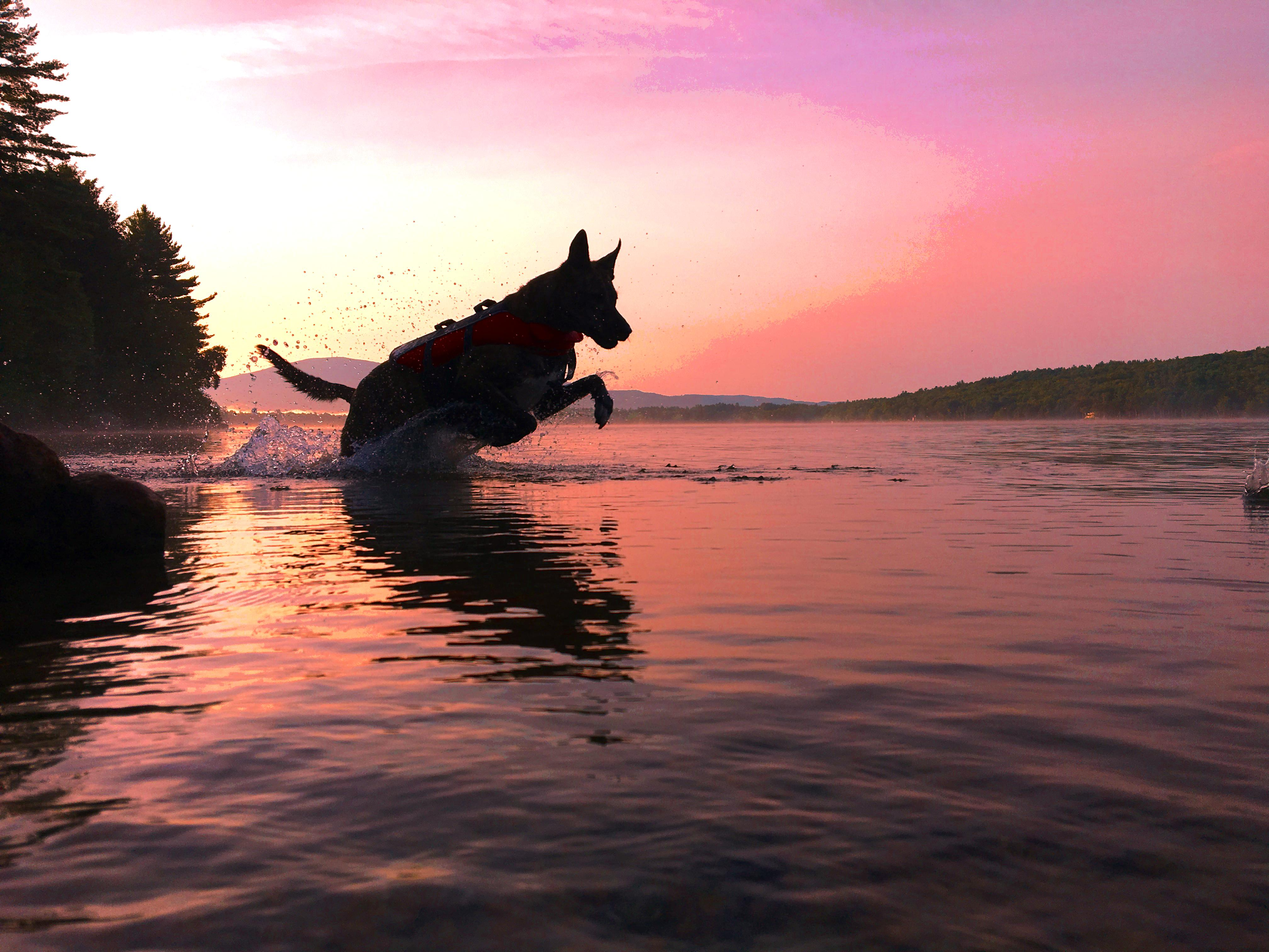
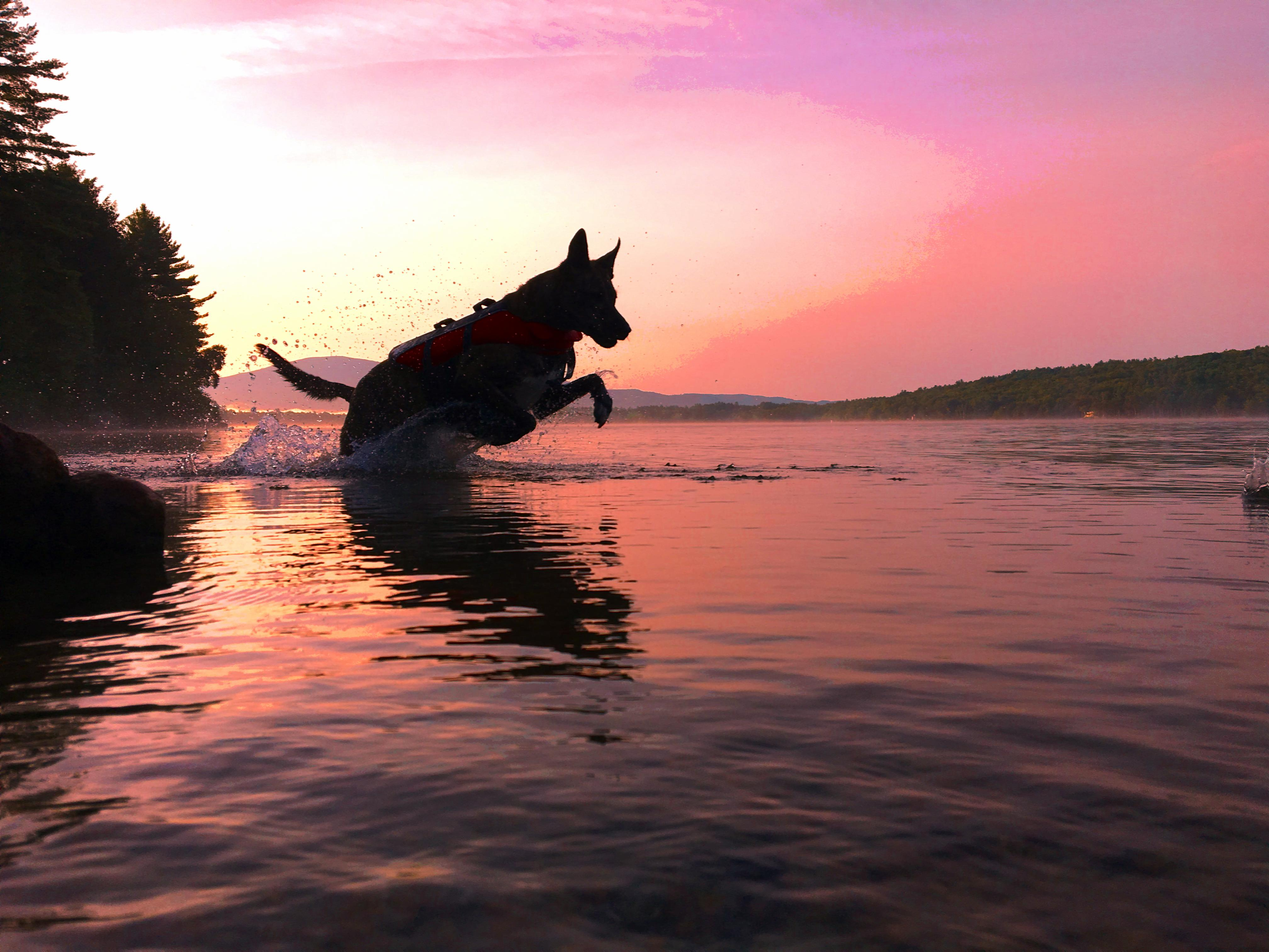
Final Commit

diff --git a/Filter.py b/Filter.py
@@ -67,4 +67,51 @@ for x in range(imgx):
 		
 	print("Filter "+str(int(((x/imgx)*100)))+"% complete") #indicate % complete
 
+px = dogpic.load()
+
+for y in range(imgy):
+	for x in range(imgx):
+		m = 3
+		mlx, mmx, mly, mmy = (-1*m), m, (-1*m), m
+		if mmx<x<(imgx + mlx) and mmy<y<(imgy+mly):
+			for t in range(mly, mmy+1):
+				for r in range(mlx, mmx+1):
+					a,b,c = px[(x+r), (y+t)]
+					w,e,u, = px[x, y]
+					r,g,b = ((a+w)/2), ((b+e)/2), ((c+u)/2)
+					dogpic.putpixel((x,y), (int(r),int(g),int(b)))
+		else:
+			yfup = y
+			yfdown = 512 - y
+			xfright = x
+			xfleft = 512 - x
+			if (-1* yfup) >= mly:
+				if yfup == 0:
+					mly = 0
+				else:
+					mly = yfup-1
+			if yfdown <= mmy:
+				if yfdown == 0:
+					mmy = 0
+				else:
+					mmy = yfdown -1
+			if (-1* xfright) >= mlx:
+				if xfright == 0:
+					mlx = 0
+				else:
+					mlx = xfright -1
+			if xfleft <= mmx:
+				if xfleft == 0:
+					mmx = 0
+				else:
+					mmx = xfleft -1
+			for t in range(mly, mmy+1):
+				for r in range(mlx, mmx+1):
+					a,b,c = px[(x+r), (y+t)]
+					w,e,u, = px[x, y]
+					r,g,b = ((a+w)/2), ((b+e)/2), ((c+u)/2)
+					dogpic.putpixel((x,y), (int(r),int(g),int(b)))
+
+	print("Smoothing " +str(int(((y/512)*100)))+"% complete")
+
 dogpic.save("Filter68.JPG")
